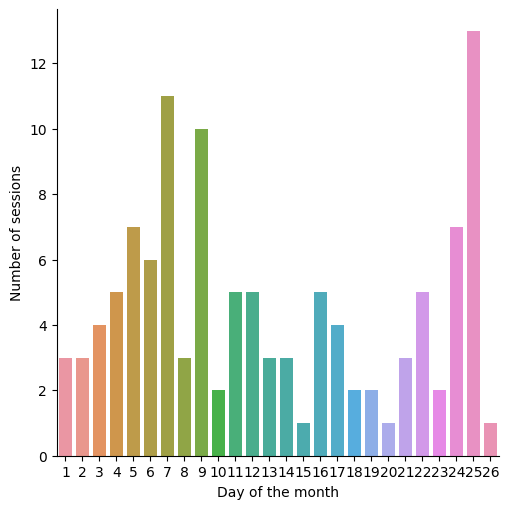
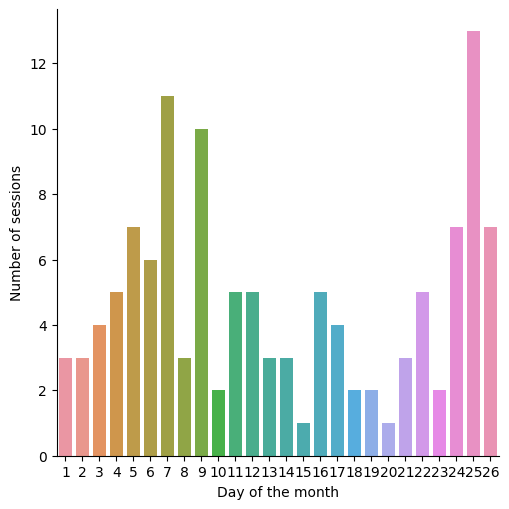
"Stats generated 2021-05-27"

Changed region(s): [[0.943, 0.442, 1.0, 0.8546]]

diff --git a/all/2021/index.html b/all/2021/index.html
@@ -93,9 +93,9 @@
                   
                     <td>5.0</td>
                   
-                    <td>116.0</td>
+                    <td>122.0</td>
                   
-                    <td>89.52202445</td>
+                    <td>86.54138139166666</td>
                   
                 </tr>
               
